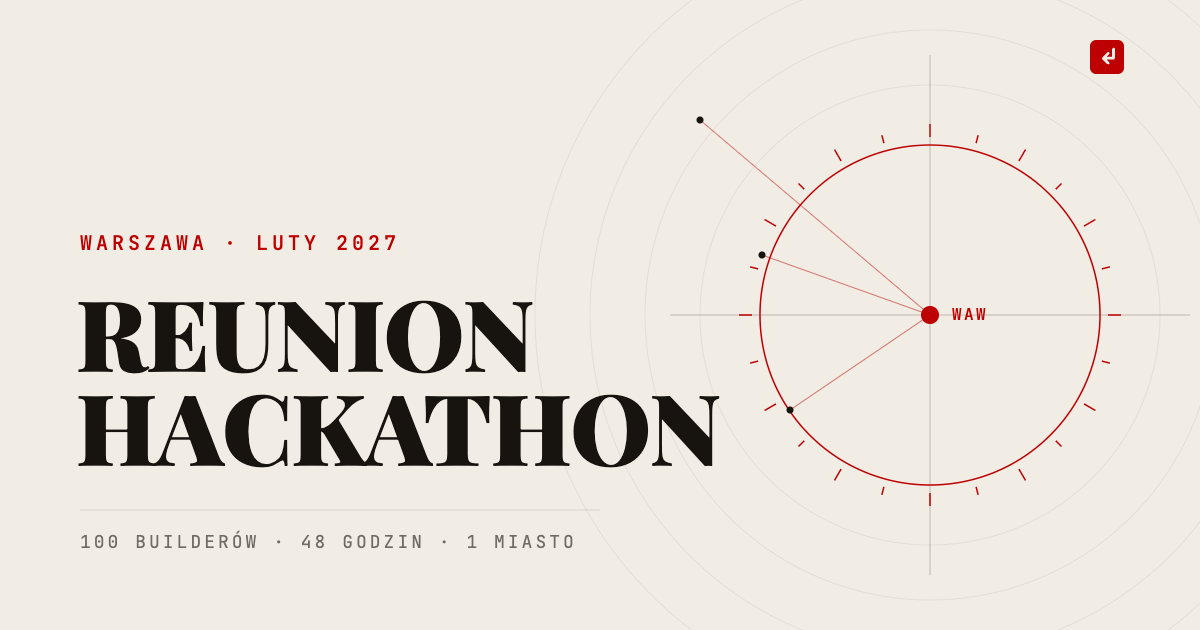
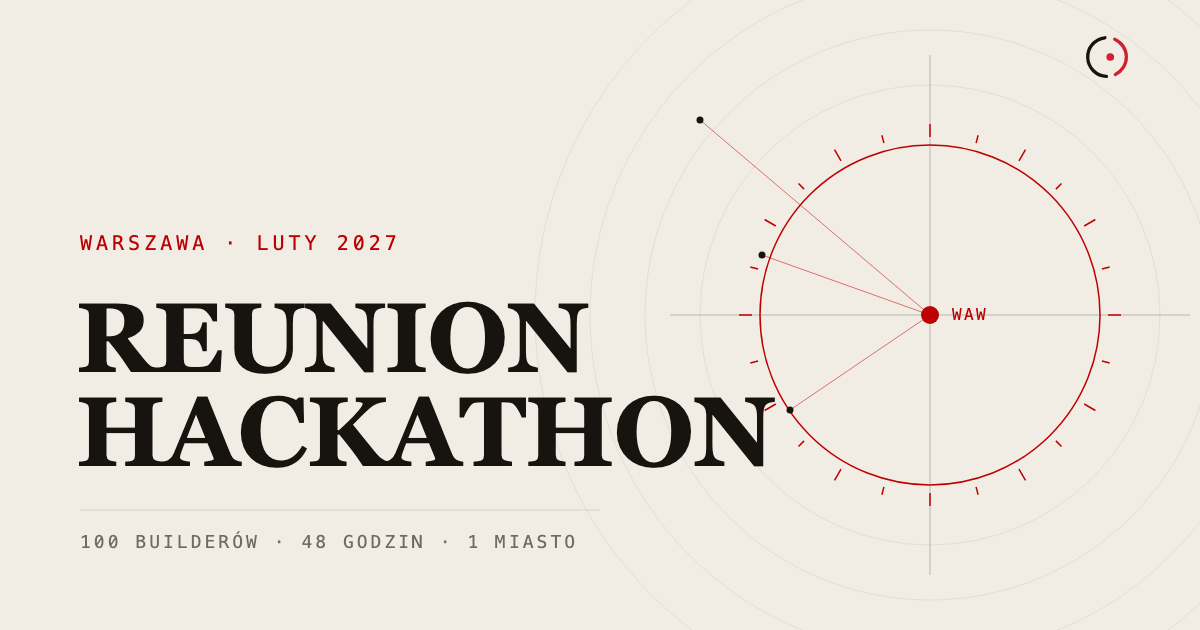
Podmiana sygnetu na oficjalny znak z decku partnerskiego
Stary placeholder (czerwony kwadrat ze strzalka w lewo) zastapiony znakiem
z naglowka decku: dwa luki wokol punktu zbiorki. Geometria odrysowana
z renderu PDF w 600 dpi, kolory 1:1 z decku (#17130E, #D2202F).

Zmienione: nav i stopka w index.html, assets/favicon.svg,
assets/og-image.svg plus przerenderowany assets/og-image.png.

Claude-Session: https://claude.ai/code/session_016x53HZPaZ6aXkmD4Jn3PUQ

diff --git a/index.html b/index.html
@@ -41,10 +41,11 @@
 <header class="nav" id="nav">
   <div class="nav__inner">
     <a class="nav__brand" href="#top">
-      <svg class="sygnet" viewBox="0 0 24 24" width="24" height="24" aria-hidden="true" focusable="false">
-        <rect x="0" y="0" width="24" height="24" rx="4" fill="#BD0001"/>
-        <path d="M16.5 6.5 V13 H10" fill="none" stroke="#F2EDE4" stroke-width="2" stroke-linecap="round" stroke-linejoin="round"/>
-        <path d="M13 9.5 L9.5 13 L13 16.5" fill="none" stroke="#F2EDE4" stroke-width="2" stroke-linecap="round" stroke-linejoin="round"/>
+      <!-- Sygnet z decku partnerskiego: dwa luki (atrament + czerwien) i punkt zbiorki. -->
+      <svg class="sygnet" viewBox="0 0 48 48" width="26" height="26" aria-hidden="true" focusable="false">
+        <path d="M21.59 2.01 A22.13 22.13 0 0 0 23.40 46.12" fill="none" stroke="#17130E" stroke-width="3.75" stroke-linecap="round"/>
+        <path d="M33.58 43.94 A22.13 22.13 0 0 0 32.84 3.72" fill="none" stroke="#D2202F" stroke-width="3.75" stroke-linecap="round"/>
+        <circle cx="27.72" cy="24" r="4.39" fill="#D2202F"/>
       </svg>
       <span class="nav__wordmark">REUNION HACKATHON</span>
     </a>
@@ -472,10 +473,10 @@
 <footer class="footer">
   <div class="wrap footer__inner">
     <div class="footer__left">
-      <svg class="sygnet" viewBox="0 0 24 24" width="20" height="20" aria-hidden="true" focusable="false">
-        <rect x="0" y="0" width="24" height="24" rx="4" fill="#BD0001"/>
-        <path d="M16.5 6.5 V13 H10" fill="none" stroke="#F2EDE4" stroke-width="2" stroke-linecap="round" stroke-linejoin="round"/>
-        <path d="M13 9.5 L9.5 13 L13 16.5" fill="none" stroke="#F2EDE4" stroke-width="2" stroke-linecap="round" stroke-linejoin="round"/>
+      <svg class="sygnet" viewBox="0 0 48 48" width="22" height="22" aria-hidden="true" focusable="false">
+        <path d="M21.59 2.01 A22.13 22.13 0 0 0 23.40 46.12" fill="none" stroke="#17130E" stroke-width="3.75" stroke-linecap="round"/>
+        <path d="M33.58 43.94 A22.13 22.13 0 0 0 32.84 3.72" fill="none" stroke="#D2202F" stroke-width="3.75" stroke-linecap="round"/>
+        <circle cx="27.72" cy="24" r="4.39" fill="#D2202F"/>
       </svg>
       <p class="footer__org">Reunion Hackathon · Organizator: Global Polish Student Society · <a href="https://polsoc.eu" target="_blank" rel="noopener">polsoc.eu</a></p>
     </div>

diff --git a/README.md b/README.md
@@ -230,6 +230,19 @@ Pięciostopniowa skala pierścieni celownika (`.102` do `.0588`) i wartości alf
 > wyciągniętych ze strumieni PDF decku partnerskiego. Obecne wartości `#F2EDE4` i `#BD0001`
 > przyszły z briefu jako wiążące. Jeśli deck jest nadrzędny, to jest jedno miejsce do cofnięcia.
 
+### Sygnet
+
+Sygnet to oficjalny znak z nagłówka decku partnerskiego (str. 2, lewy górny róg), odrysowany
+z geometrii zmierzonej na renderze PDF w 600 dpi: okrąg o promieniu środkowym `22.13`
+w polu `48x48`, grubość kreski `3.75`, zaokrąglone końce. Łuk atramentowy `#17130E` bierze
+lewą stronę (172°), łuk czerwony `#D2202F` prawą (131°), przerwy u góry i u dołu mają po 28,5°.
+Punkt zbiorki to koło `r=4.39` przesunięte o `3.72` w prawo od środka — to przesunięcie jest
+w oryginale, nie jest błędem odrysu.
+
+> **Uwaga.** Sygnet trzyma czerwień decku `#D2202F`, a reszta strony jedzie na `--red: #BD0001`
+> z briefu. Te dwie czerwienie stoją obok siebie w nawigacji (znak vs. przycisk APLIKUJ)
+> i różnicę widać. Do ujednolicenia trzeba zdecydować, który dokument jest nadrzędny.
+
 Zmiana palety w jednym miejscu (`:root`) przemalowuje całą stronę. Poza tym kolory są jeszcze
 zapisane na sztywno w trzech miejscach, bo to samodzielne pliki SVG i inline sygnety:
 `assets/favicon.svg`, `assets/og-image.svg` oraz sygnet w `index.html` (nav i stopka),
